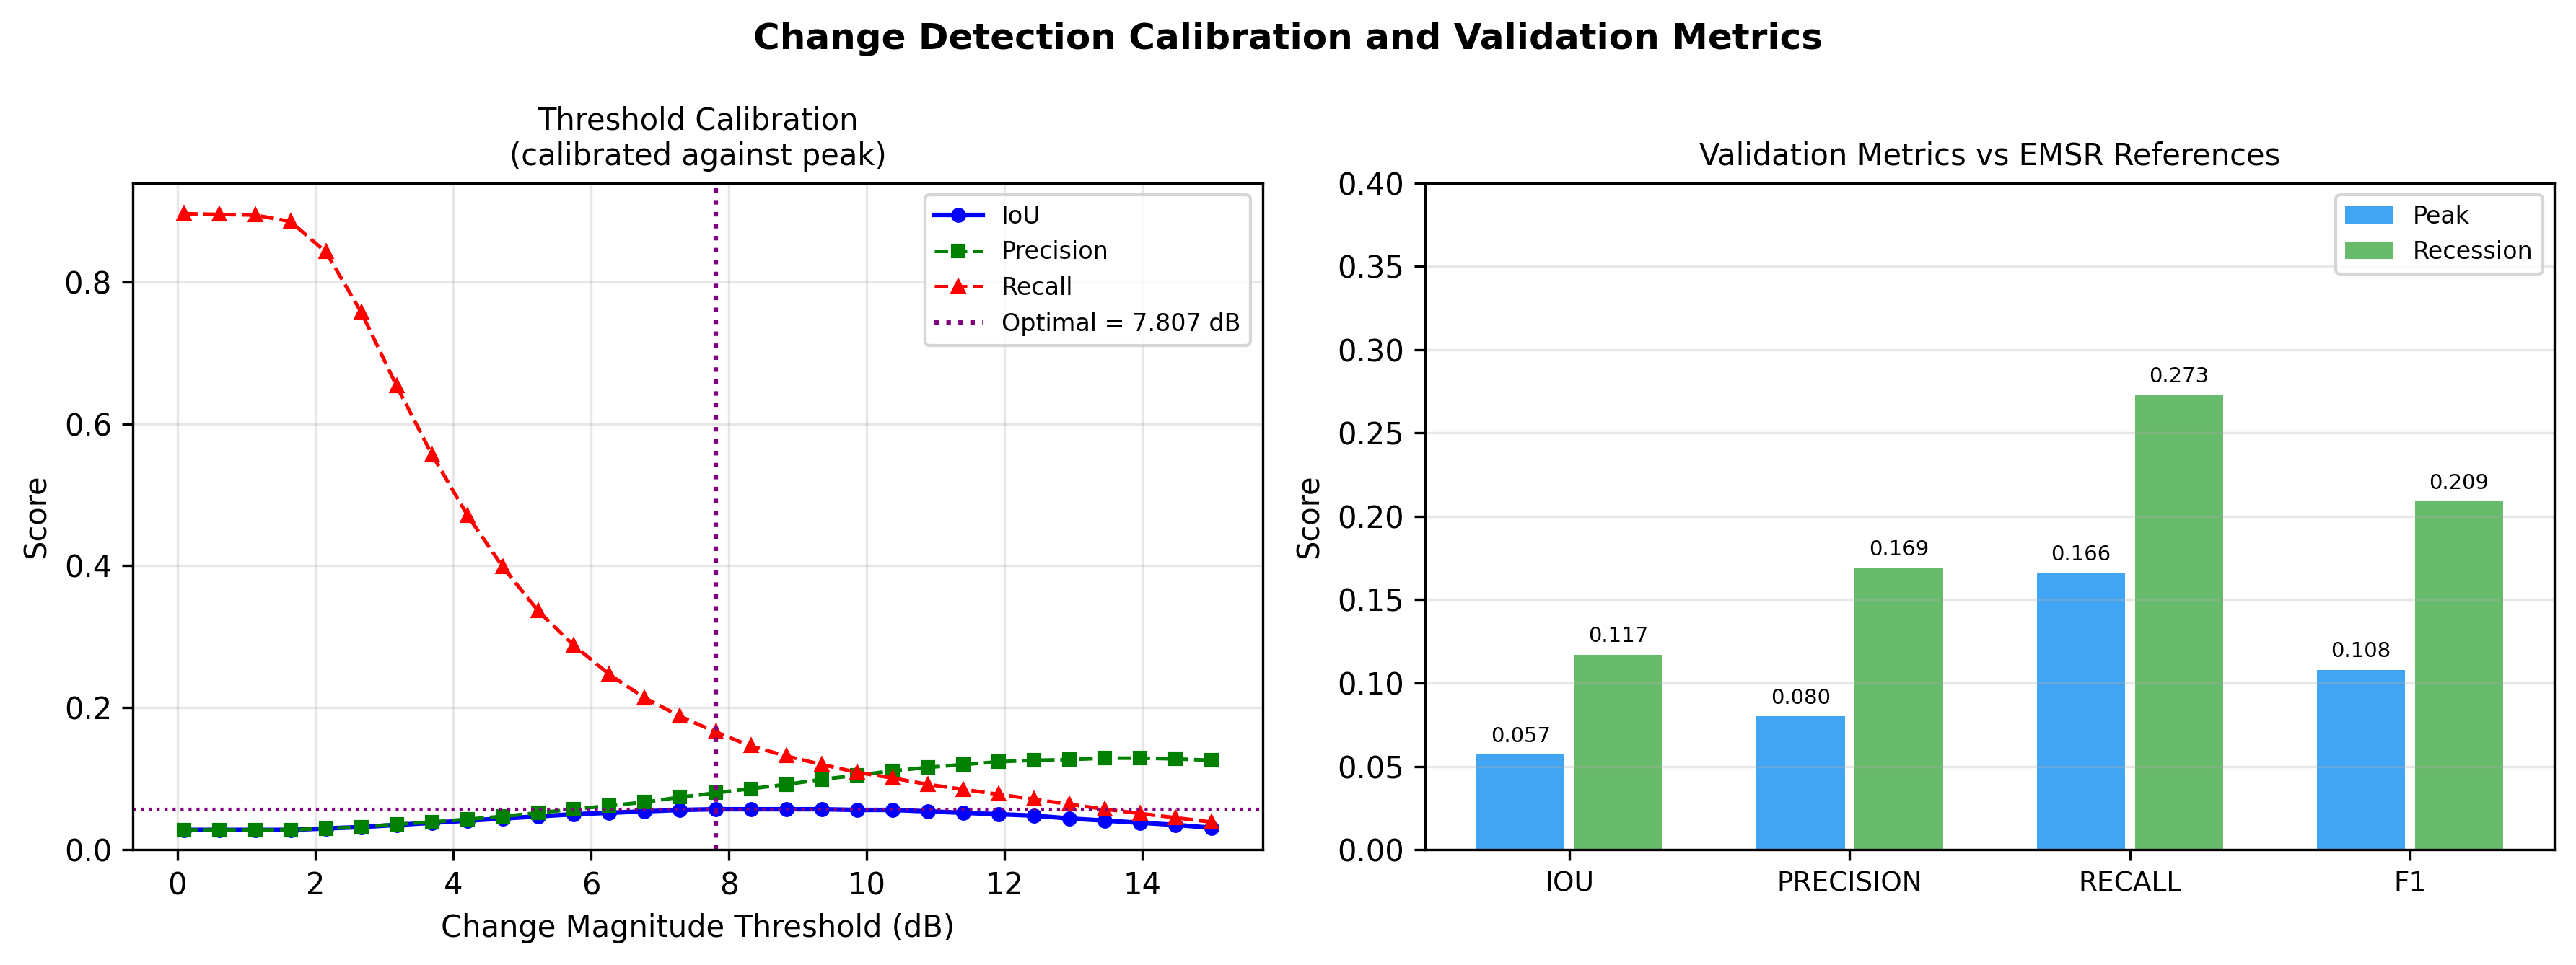
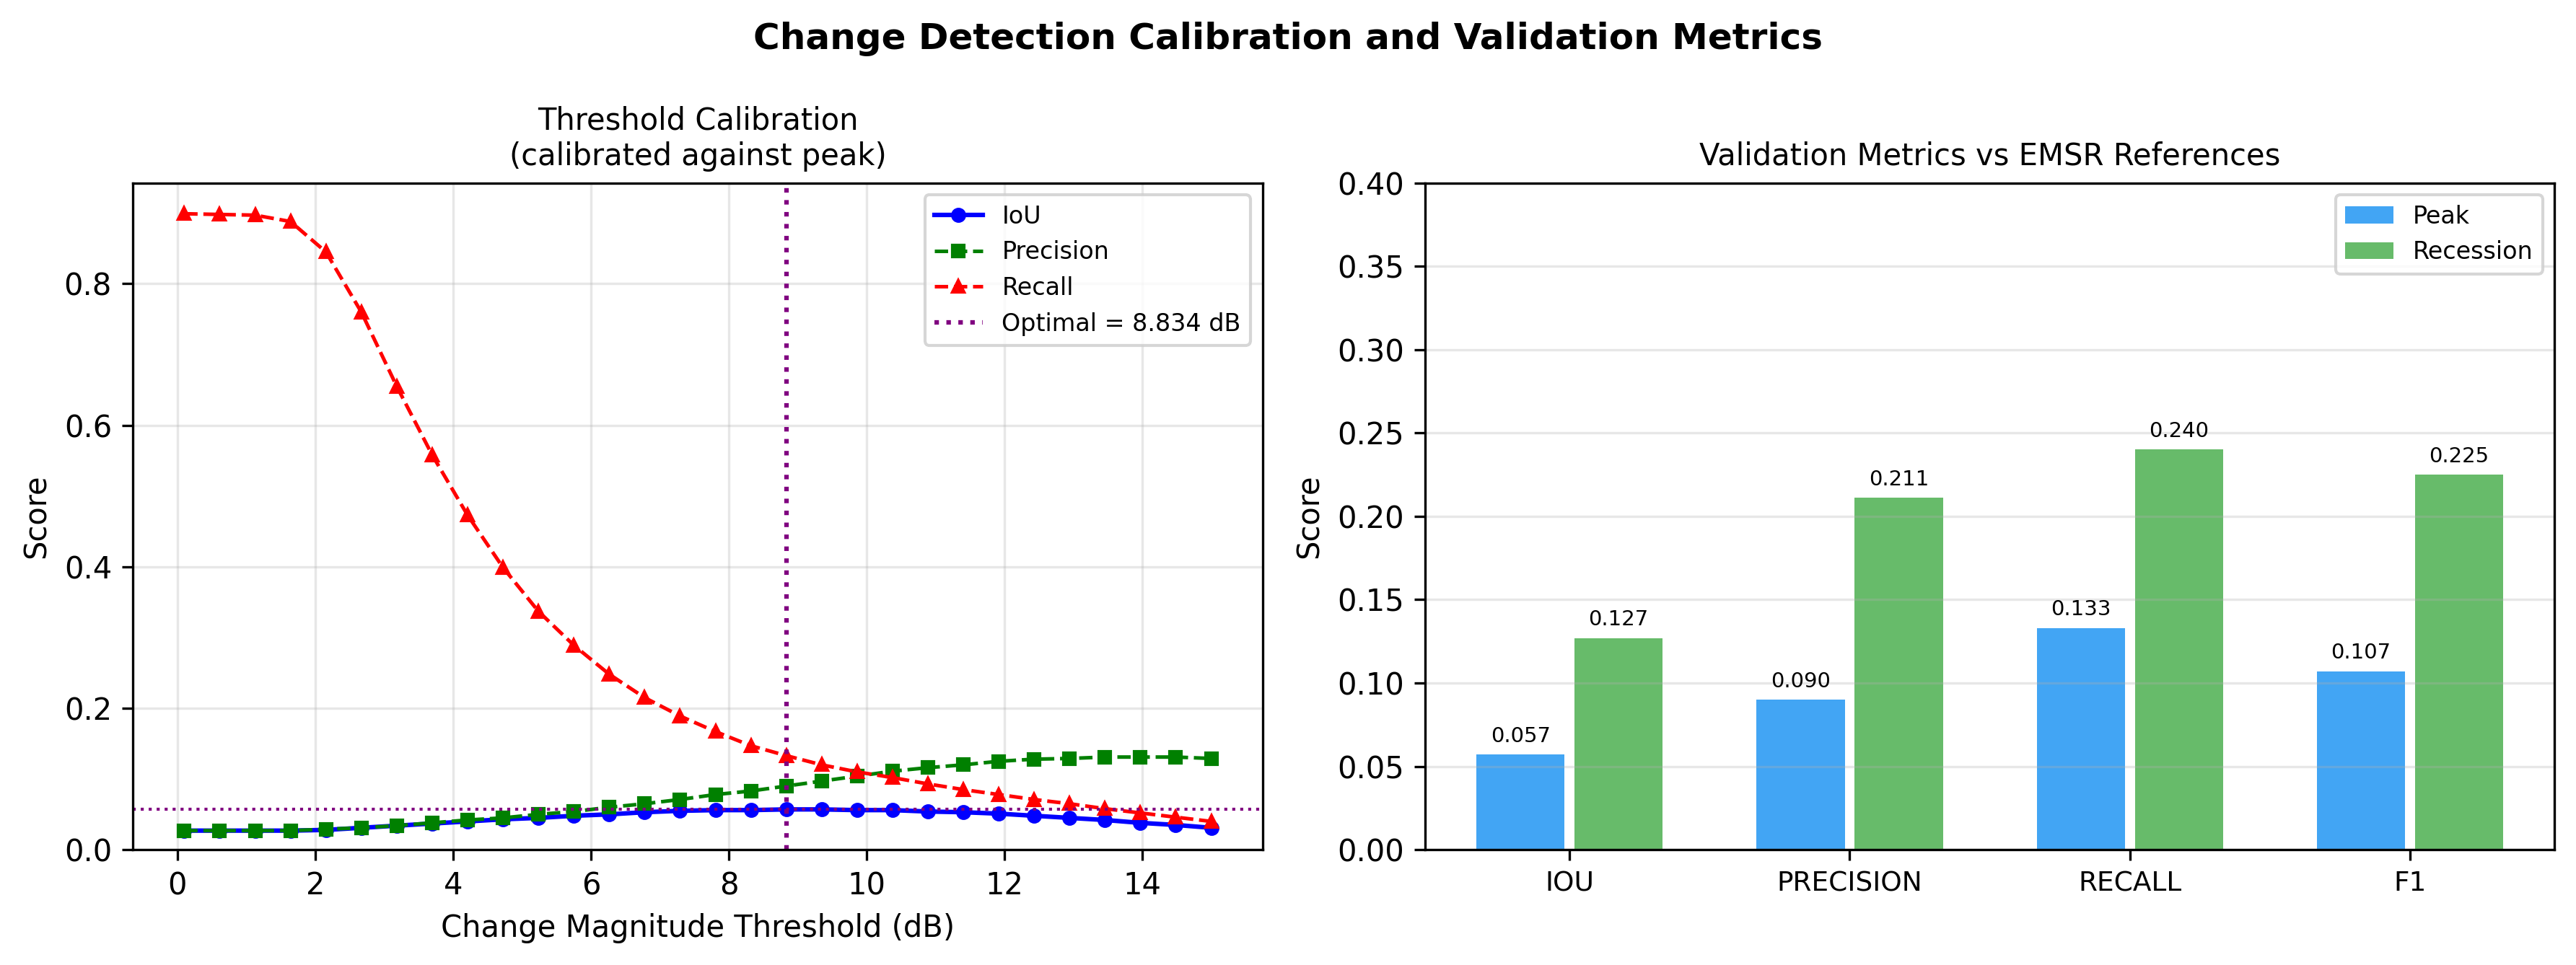
updated framing emilia

diff --git a/README.md b/README.md
@@ -8,11 +8,11 @@ A Sentinel-1 SAR flood mapping pipeline applied to three contrasting flood event
 
 | Case Study | Event | Date | Best IoU | Status |
 |---|---|---|---|---|
-| [Emilia-Romagna](emilia_romagna/) | Italy — Faenza/Forlì floods | May 2023 | **0.117** (recession) | Complete |
+| [Emilia-Romagna](emilia_romagna/) | Italy — Faenza/Forlì floods | May 2023 | **0.127** (recession) | Complete |
 | [Wroclaw](wroclaw/) | Poland — Storm Boris | Sep 2024 | **0.029** (maximum extent) | Complete |
 | [Jacobabad](jacobabad/) | Pakistan — monsoon mega-flood | Jul–Aug 2022 | **0.370** (peak) | Complete |
 
-The three events span the full performance range for SAR change-detection flood mapping — from the physically inverted Wroclaw case (signal mechanism wrong, IoU 0.029) through Italy's soil moisture confound (IoU 0.057 peak / 0.117 recession) to Jacobabad's best-case arid open-water scenario (IoU 0.370).
+The three events span the full performance range for SAR change-detection flood mapping — from the physically inverted Wroclaw case (signal mechanism wrong, IoU 0.029) through Italy's soil moisture confound (IoU 0.057 peak / 0.127 recession) to Jacobabad's best-case arid open-water scenario (IoU 0.370).
 
 ---
 
@@ -66,7 +66,7 @@ Masking applied before classification:
 
 | Case Study | Mode | Threshold | Best IoU | Precision | Recall | F1 | Detected | Reference |
 |---|---|---|---|---|---|---|---|---|
-| Emilia-Romagna | combined_magnitude | 7.807 dB | 0.117 (recession) | 0.169 | 0.273 | 0.209 | 18,058 ha | 11,212 ha |
+| Emilia-Romagna | combined_magnitude | 8.834 dB | 0.127 (recession) | 0.211 | 0.240 | 0.225 | 12,674 ha | 11,212 ha |
 | Wroclaw | combined_magnitude | 2.931 dB | 0.029 (maximum) | 0.029 | 0.810 | 0.056 | 534,863 ha | 20,161 ha |
 | Jacobabad | directional_decrease | 7.807 dB | 0.370 (peak) | 0.414 | 0.777 | 0.540 | 94,350 ha | 50,185 ha |
 
@@ -77,10 +77,10 @@ Performance is fundamentally determined by how physically distinct the flood SAR
 | Case | Pre-event soil | Mean ΔVV inside flood | Mean ΔVV outside | Separation | IoU |
 |---|---|---|---|---|---|
 | Jacobabad | Arid (dry pre-monsoon) | −9.45 dB | −4.18 dB | **−5.27 dB** | 0.370 |
-| Emilia-Romagna | Wet (preceding rain) | −1.36 dB | −0.68 dB | **0.68 dB** | 0.057 |
+| Emilia-Romagna | Wet (preceding rain) | −1.36 dB | −0.68 dB | **0.68 dB** | 0.057 (peak) / 0.127 (recession) |
 | Wroclaw | Very wet (Aug 2024) | **+1.17 dB** (double-bounce) | +1.57 dB (agriculture) | **−0.40 dB** | 0.029 |
 
-Jacobabad confirms the hypothesis: arid pre-event conditions with correct-direction specular signal produce 6–13× higher IoU than the European cases (0.370 vs 0.057 for Italy peak, vs 0.029 for Wroclaw). The −5.27 dB separation is an order of magnitude stronger than either European case. Wroclaw is a degenerate case — the flood inundated standing September crops, producing flooded-vegetation double-bounce (VV increases), while agricultural harvest adds an even larger change signal across the background.
+Jacobabad confirms the hypothesis: arid pre-event conditions with correct-direction specular signal produce 3–6× higher IoU than the European cases (0.370 vs 0.127 for Italy recession, vs 0.029 for Wroclaw). The −5.27 dB separation is an order of magnitude stronger than either European case. Wroclaw is a degenerate case — the flood inundated standing September crops, producing flooded-vegetation double-bounce (VV increases), while agricultural harvest adds an even larger change signal across the background.
 
 ---
 

diff --git a/emilia_romagna/README.md b/emilia_romagna/README.md
@@ -31,7 +31,7 @@ Combined magnitude = √(ΔVV² + ΔVH²)
 
 **Masking**: JRC Global Surface Water ≥ 75% occurrence (permanent water excluded); SRTM slope > 5° (22% of scene excluded as steep terrain).
 
-**Threshold calibration**: grid search 0.1–15 dB (30 steps), maximising IoU against the EMSR664 peak reference. Optimal: **7.807 dB**.
+**Threshold calibration**: grid search 0.1–15 dB (30 steps), maximising IoU against the EMSR664 peak reference. Optimal: **8.834 dB**.
 
 ---
 
@@ -81,8 +81,8 @@ False positives (red) spread across agricultural fields are wet soil misclassifi
 
 | Reference | IoU | Precision | Recall | F1 | Detected | Reference area |
 |---|---|---|---|---|---|---|
-| Peak flood (DEL_PRODUCT) | 0.057 | 0.080 | 0.166 | 0.108 | 18,058 ha | 8,798 ha |
-| **Recession (DEL_MONIT01)** | **0.117** | **0.169** | **0.273** | **0.209** | 18,058 ha | 11,212 ha |
+| Peak flood (DEL_PRODUCT) | 0.057 | 0.090 | 0.133 | 0.107 | 12,674 ha | 8,798 ha |
+| **Recession (DEL_MONIT01)** | **0.127** | **0.211** | **0.240** | **0.225** | 12,674 ha | 11,212 ha |
 
 ---
 
@@ -92,11 +92,11 @@ False positives (red) spread across agricultural fields are wet soil misclassifi
 <img src="outputs/figures/fig04_validation_metrics.png" width="800">
 </p>
 
-*Figure 4: IoU, precision, and recall vs threshold (left); final metrics at 7.807 dB (right).*
+*Figure 4: IoU, precision, and recall vs threshold (left); final metrics at 8.834 dB (right).*
 
 IoU peaks at 0.057 and the curve is broad and low across the full sweep — no threshold achieves clean separation. With only 0.68 dB signal separation, precision and recall cannot both be high simultaneously. The flat, low curve is diagnostic of overlapping pixel distributions rather than a tuning problem.
 
-The higher recession IoU (0.117) confirms the hypothesis: persistent standing water after rainfall drains is more specularly distinct from background, making it easier to detect than the immediate flood peak.
+The higher recession IoU (0.127) confirms the hypothesis: persistent standing water after rainfall drains is more specularly distinct from background, making it easier to detect than the immediate flood peak.
 
 ---
 